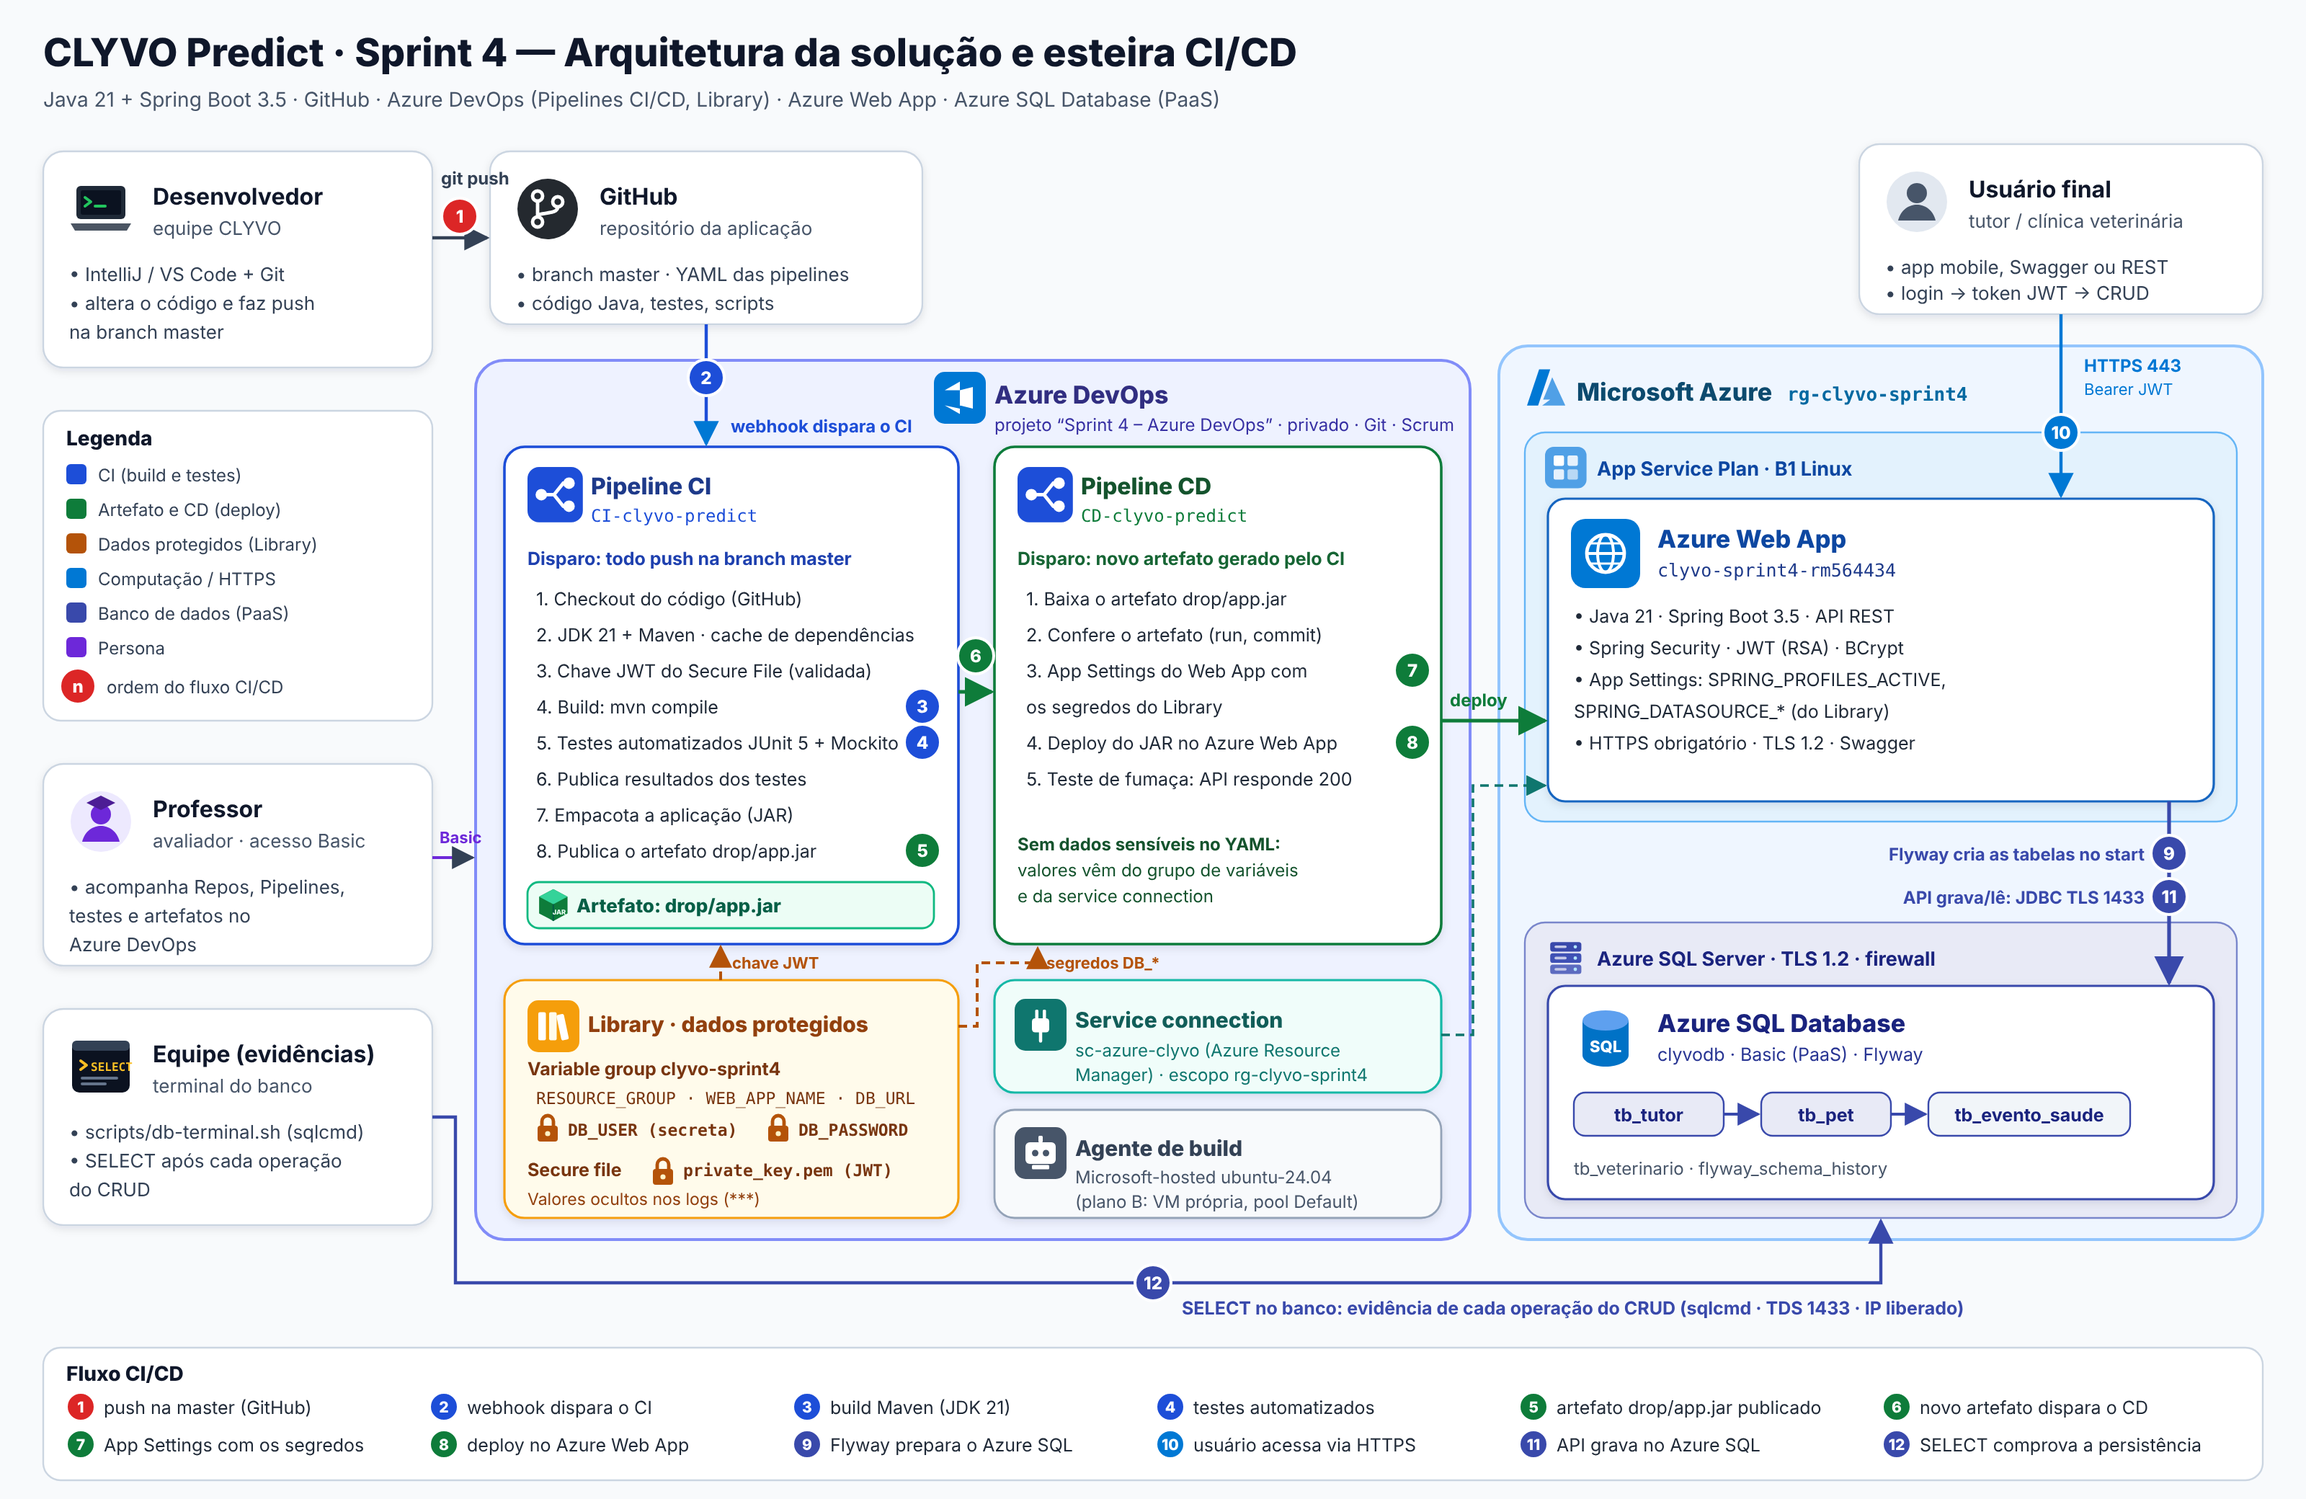
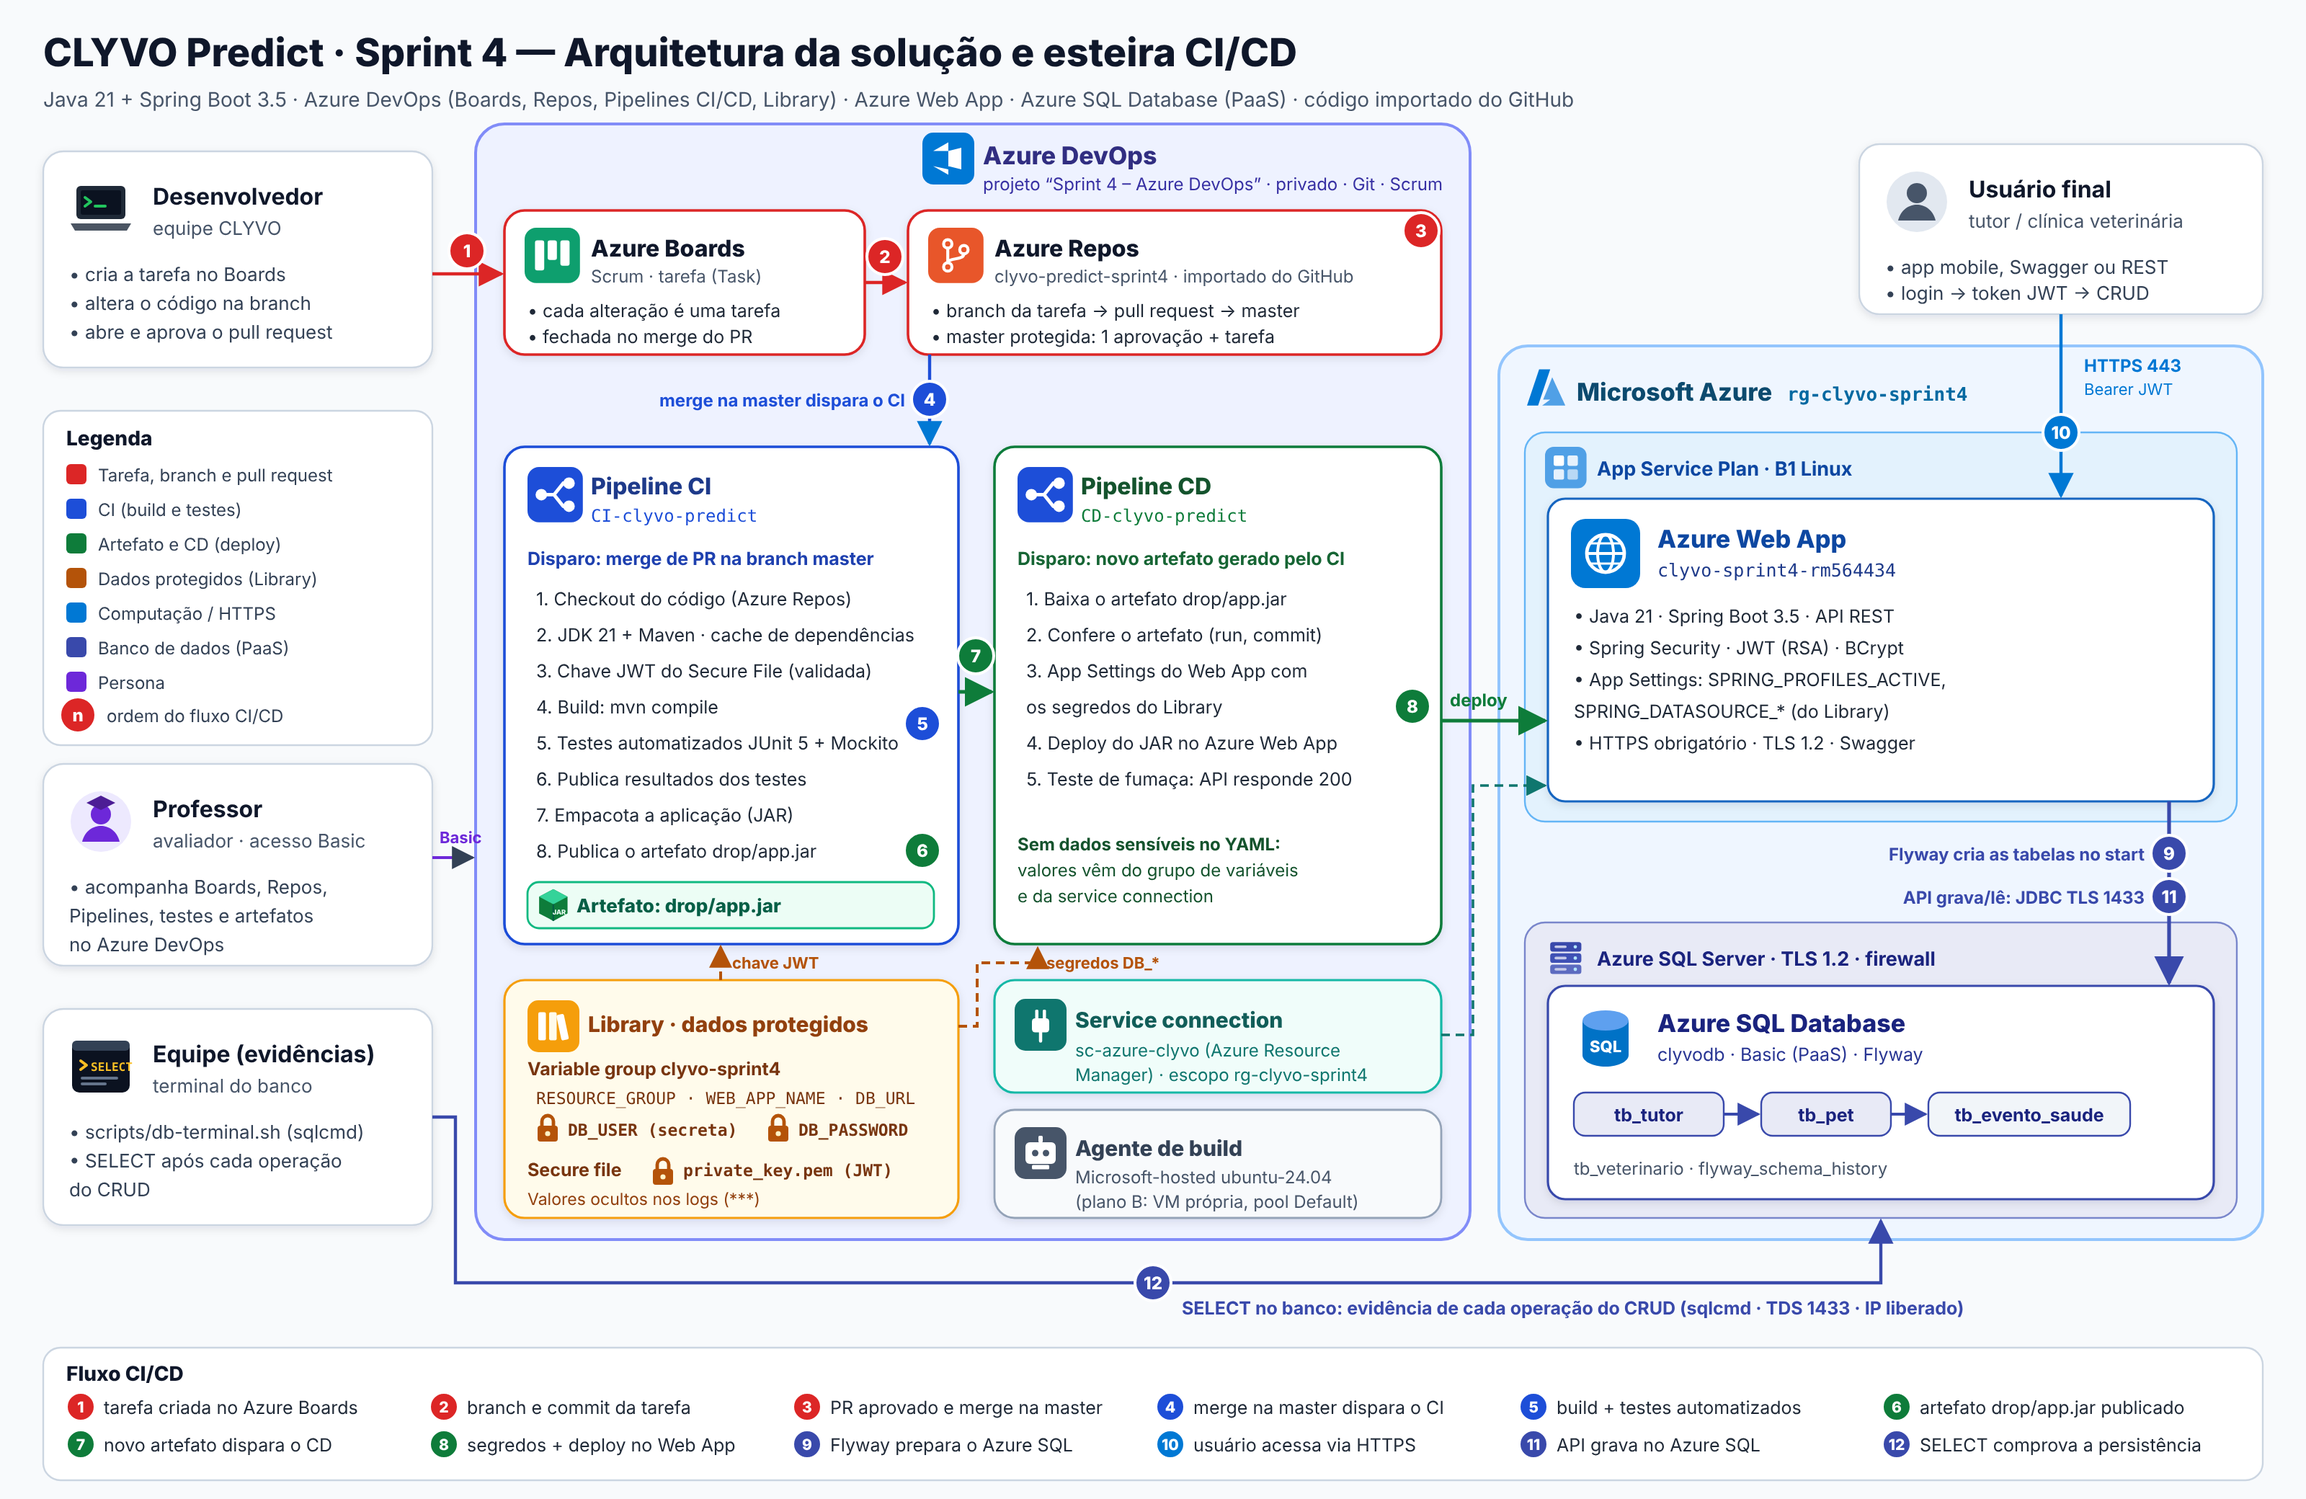
docs: fluxo com Azure Boards, Azure Repos e pull request

diff --git a/README.md b/README.md
@@ -5,7 +5,8 @@
 | Entrega | Link |
 |---|---|
 | Repositório GitHub | https://github.com/eduardawv/clyvo-predict-sprint4 |
-| Projeto no Azure DevOps | [https://dev.azure.com/2TDSPX-EDUARDA/Sprint%204%20%E2%80%93%20Azure%20DevOps](https://dev.azure.com/2TDSPX-EDUARDA/Sprint%204%20%E2%80%93%20Azure%20DevOps) |
+| Projeto no Azure DevOps | https://dev.azure.com/2TDSPX-EDUARDA/Sprint%204%20%E2%80%93%20Azure%20DevOps |
+| Repositório no Azure Repos (origem das pipelines) | https://dev.azure.com/2TDSPX-EDUARDA/Sprint%204%20%E2%80%93%20Azure%20DevOps/_git/clyvo-predict-sprint4 |
 | Vídeo (YouTube) | https://www.youtube.com/watch?v=INSERIR_LINK |
 
 | Nome completo | RM | Turma |
@@ -13,8 +14,8 @@
 | Camily Vitoria Pereira Maciel | RM566520 | 2TDSPX |
 | Eduarda Weiss Ventura | RM564434 | 2TDSPX |
 | Lucas Nunes Soares | RM566503 | 2TDSPX |
-| Maria Gabriela Landim Severo | RM565146 | 2TDSR |
-| Samara Porto Souza | RM559072 | 2TDSR |
+| Maria Gabriela Landim Severo | RM565146 | 2TDSPX |
+| Samara Porto Souza | RM559072 | 2TDSPX |
 
 ---
 
@@ -22,9 +23,10 @@
 
 O **CLYVO Predict** é a API da nossa solução de saúde preventiva para pets, desenvolvida no Challenge FIAP 2026 com a healthtech veterinária Clyvo. A API centraliza **tutores**, **pets**, **veterinários** e **eventos de saúde** (vacinas, consultas, doenças) e calcula para cada pet um **Health Score** de 0 a 100, que sobe com cuidados preventivos e cai com doenças e acidentes. O objetivo é tirar a jornada do pet do modo reativo, só emergência, e dar à clínica um histórico contínuo do paciente.
 
-Nesta sprint, o código Java da Sprint 4 passa a ser entregue por uma esteira **CI/CD no Azure DevOps**:
-1. Cada alteração na branch `master` dispara o build, os testes automatizados e a publicação do artefato.
-2. Cada novo artefato dispara o deploy no **Azure Web App**, com o banco **Azure SQL Database (PaaS)**.
+Nesta sprint, o código Java da Sprint 4 passa a ser entregue por uma esteira **CI/CD no Azure DevOps**, com o ciclo completo de vida de cada alteração:
+1. A alteração nasce de uma tarefa no **Azure Boards**, é feita numa branch do **Azure Repos** e entra na `master` por **pull request aprovado**.
+2. O merge na `master` dispara o build, os testes automatizados e a publicação do artefato.
+3. Cada novo artefato dispara o deploy no **Azure Web App**, com o banco **Azure SQL Database (PaaS)**.
 
 ### Stack
 
@@ -35,7 +37,8 @@ Nesta sprint, o código Java da Sprint 4 passa a ser entregue por uma esteira **
 | Documentação da API | SpringDoc OpenAPI (Swagger UI) |
 | Banco de dados | Azure SQL Database (PaaS), driver `mssql-jdbc`, migrations com Flyway |
 | Build e testes | Maven, JUnit 5, Mockito, Hibernate Validator |
-| Código-fonte | GitHub (branch `master`) |
+| Código-fonte | Azure Repos (Git, branch `master` protegida por pull request), importado do GitHub |
+| Gestão do trabalho | Azure Boards (processo Scrum): cada alteração é uma tarefa vinculada à branch, ao commit e ao pull request |
 | CI/CD | Azure DevOps: Azure Pipelines (YAML) e Library (grupo de variáveis e secure file) |
 | Hospedagem | Azure App Service: Web App Linux, Java SE 21, plano B1 |
 | Infraestrutura | Azure CLI (scripts na pasta `scripts/`) |
@@ -46,21 +49,22 @@ Nesta sprint, o código Java da Sprint 4 passa a ser entregue por uma esteira **
 
 | # | Etapa | Onde acontece |
 |---|---|---|
-| 1 | O desenvolvedor faz commit e push na branch `master` | IDE + Git → GitHub |
-| 2 | O webhook do GitHub dispara a pipeline **CI** | GitHub → Azure Pipelines |
-| 3 | Build com Maven e JDK 21; a chave JWT vem do Secure File | Pipeline CI |
-| 4 | Testes automatizados (JUnit 5 + Mockito), com resultados publicados na aba *Tests* | Pipeline CI |
-| 5 | Publicação do artefato `drop/app.jar` no Azure DevOps | Pipeline CI |
-| 6 | O novo artefato dispara a pipeline **CD** | Azure Pipelines |
-| 7 | O CD grava as variáveis de ambiente do Web App com os segredos do Library | Pipeline CD → Azure (service connection) |
-| 8 | Deploy do JAR no Azure Web App e teste de fumaça (API responde 200) | Pipeline CD → Web App |
+| 1 | O desenvolvedor cria a tarefa no Azure Boards e, a partir dela, a branch de trabalho | Azure Boards → Azure Repos |
+| 2 | Altera o código na branch e faz o commit vinculado à tarefa | Azure Repos (editor web ou IDE + Git) |
+| 3 | Abre o pull request para a `master`. A política exige 1 aprovação, tarefa vinculada e comentários resolvidos. Aprovado, o merge fecha a tarefa | Azure Repos (Branch policies) → Azure Boards |
+| 4 | O merge na `master` dispara a pipeline **CI** | Azure Repos → Azure Pipelines |
+| 5 | Build com Maven e JDK 21 (chave JWT do Secure File) e testes automatizados (JUnit 5 + Mockito), com resultados na aba *Tests* | Pipeline CI |
+| 6 | Publicação do artefato `drop/app.jar` no Azure DevOps | Pipeline CI |
+| 7 | O novo artefato dispara a pipeline **CD** | Azure Pipelines |
+| 8 | O CD grava as variáveis de ambiente do Web App com os segredos do Library, faz o deploy do JAR e o teste de fumaça (API responde 200) | Pipeline CD → Azure (service connection) → Web App |
 | 9 | Na subida da aplicação, o Flyway cria ou atualiza as tabelas | Web App → Azure SQL |
 | 10 | O usuário final acessa a API por HTTPS, com token JWT | Usuário → Web App |
 | 11 | A API grava e lê no Azure SQL (JDBC criptografado, porta 1433) | Web App → Azure SQL |
 | 12 | A equipe comprova cada operação com SELECT no banco | Terminal (sqlcmd) → Azure SQL |
 
 **Personas:**
-- **Desenvolvedor:** altera o código e faz push.
+- **Desenvolvedor:** cria a tarefa, a branch, o commit e o pull request.
+- **Revisor:** aprova o pull request e faz o merge na `master` (a política permite que o autor aprove a própria alteração).
 - **Usuário final:** tutor ou clínica que usa a API.
 - **Professor:** acompanha o projeto com acesso *Basic*.
 - **Equipe:** comprova a persistência no banco.
@@ -101,6 +105,16 @@ RM565146 - Maria Gabriela Landim Severo - 2TDSPX
 RM559072 - Samara Porto Souza - 2TDSPX
 ```
 
+### 4.1 Azure Boards e Azure Repos
+
+| Item | Configuração |
+|---|---|
+| Repositório | `clyvo-predict-sprint4` no Azure Repos, importado de https://github.com/eduardawv/clyvo-predict-sprint4 |
+| Branch padrão | `master` |
+| Políticas da `master` | mínimo de 1 revisor (o autor pode aprovar), tarefa vinculada obrigatória, comentários resolvidos obrigatórios e revisor incluído automaticamente |
+| Fluxo de cada alteração | tarefa (Boards) → branch → commit vinculado → pull request → aprovação → merge na `master` (a tarefa vai para *Done*) |
+| GitHub | cópia pública do código para a entrega; recebe a `master` do Azure Repos depois de cada merge |
+
 ## 5. Acesso do professor
 
 O professor foi convidado em *Organization settings > Users*, com nível de acesso **Basic** e adicionado ao projeto `Sprint 4 – Azure DevOps`.
@@ -111,14 +125,14 @@ A organização gratuita permite **5 usuários Basic**: o professor ocupa um del
 
 | Pipeline | Arquivo | Disparo |
 |---|---|---|
-| `CI-clyvo-predict` | [`azure-pipelines-ci.yml`](azure-pipelines-ci.yml) | toda alteração na branch `master` |
+| `CI-clyvo-predict` | [`azure-pipelines-ci.yml`](azure-pipelines-ci.yml) | toda alteração na branch `master` (merge de pull request) |
 | `CD-clyvo-predict` | [`azure-pipelines-cd.yml`](azure-pipelines-cd.yml) | conclusão do CI com novo artefato (`resources.pipelines`) |
 
 ### 6.1 CI: build, testes e artefato
 
 | Passo | O que faz |
 |---|---|
-| 1. Checkout | Baixa o código do GitHub (branch `master`) |
+| 1. Checkout | Baixa o código do Azure Repos (branch `master`, commit do merge) |
 | 2. JDK 21 e Maven | Seleciona o JDK 21 do agente e mostra as versões |
 | 3. Cache Maven | Reaproveita as dependências entre execuções |
 | 4. Secure File | Baixa `private_key.pem` (chave privada do JWT) do Library |
@@ -157,8 +171,8 @@ Os valores secretos aparecem como `***` nos logs. No Web App, eles viram *App Se
 
 | Regra | Como foi atendida |
 |---|---|
-| I. Pipeline conectada ao repositório | As duas pipelines leem o YAML do repositório GitHub (app Azure Pipelines) |
-| II. CI dispara a cada alteração na `master` | `trigger: branches: include: master` |
+| I. Pipeline conectada ao repositório | As duas pipelines leem o YAML do repositório `clyvo-predict-sprint4` no Azure Repos |
+| II. CI dispara a cada alteração na `master` | `trigger: branches: include: master`; como a `master` é protegida, toda alteração chega por merge de pull request |
 | III. CD dispara após novo artefato | `resources.pipelines` com `trigger` no CI `CI-clyvo-predict` |
 | IV. Variáveis sensíveis protegidas | Grupo de variáveis com segredos, Secure File e service connection |
 | V. Artefato publicado no Azure DevOps | `PublishPipelineArtifact@1` → `drop/app.jar` |
@@ -193,10 +207,13 @@ Feche e reabra o Git Bash. Não é preciso JDK nem Maven na máquina: o build ro
 
 ### 8.2 Repositório
 
+O código está no GitHub e foi importado para o Azure Repos, que é a origem das pipelines. Para trabalhar localmente com os dois:
+
 ```bash
 mkdir -p /c/dev && cd /c/dev
 git clone https://github.com/eduardawv/clyvo-predict-sprint4.git
 cd clyvo-predict-sprint4
+git remote add azure "URL copiada em Repos > Clone"
 ```
 
 As chaves do JWT são geradas uma única vez com `bash scripts/gerar-chave-jwt.sh`:
@@ -218,17 +235,28 @@ O script:
 ### 8.4 Azure DevOps
 
 1. **Projeto** com os dados da seção 4. Convide o professor com acesso Basic (seção 5).
-2. **Service connection:** *Project settings > Service connections > New > Azure Resource Manager*.
+2. **Azure Repos:** *Repos > Import a repository* (Git, URL do GitHub, sem autenticação). Renomeie o repositório para `clyvo-predict-sprint4` em *Project settings > Repositories*.
+3. **Políticas da `master`:** *Repos > Branches > master > ⋮ > Branch policies*, com as regras da seção 4.1.
+4. **Service connection:** *Project settings > Service connections > New > Azure Resource Manager*.
    - Escolha *Workload identity federation (automatic)*, a assinatura e o resource group `rg-clyvo-sprint4`.
    - Dê o nome `sc-azure-clyvo` e marque *Grant access permission to all pipelines*.
-3. **Library > + Variable group** `clyvo-sprint4`:
+5. **Library > + Variable group** `clyvo-sprint4`:
    - cadastre as variáveis da seção 6.3, com o cadeado em `DB_USER` e `DB_PASSWORD`;
    - em *Pipeline permissions*, libere o acesso para as pipelines.
-4. **Library > Secure files > + Secure file:** envie `.keys/private_key.pem` com esse mesmo nome e libere o acesso às pipelines.
-5. **Pipelines > New pipeline > GitHub > este repositório > Existing Azure Pipelines YAML file:**
+6. **Library > Secure files > + Secure file:** envie `.keys/private_key.pem` com esse mesmo nome e libere o acesso às pipelines.
+7. **Pipelines > New pipeline > Azure Repos Git > `clyvo-predict-sprint4` > Existing Azure Pipelines YAML file:**
    - escolha `/azure-pipelines-ci.yml`, clique em **Save** e renomeie para `CI-clyvo-predict`;
    - repita com `/azure-pipelines-cd.yml` e renomeie para `CD-clyvo-predict`.
-6. Rode o CI uma vez (*Run pipeline*). Ao terminar, o CD dispara sozinho.
+8. **Ciclo de uma alteração:**
+   - *Boards > Work items > New Work Item > Task* e, na tarefa, *Create a branch* a partir da `master`;
+   - altere o código na branch e faça o commit vinculando a tarefa;
+   - *Repos > Pull requests > Create a pull request* para a `master`, com a tarefa vinculada;
+   - **Approve** e **Complete** (merge, com *Complete associated work items after merging*).
+   O merge dispara o CI e o novo artefato dispara o CD.
+9. **Sincronize o GitHub** depois de cada merge:
+   ```bash
+   git checkout master && git pull azure master && git push origin master
+   ```
 
 ### 8.5 Plano B: agente próprio (sem paralelismo hospedado)
 
@@ -236,10 +264,10 @@ Organizações novas só recebem o agente gratuito da Microsoft depois de vincul
 
 ```bash
 bash scripts/azure-agente-vm.sh        # pede a URL da organização e um PAT (Agent Pools: Read & manage)
+git fetch azure && git checkout -b ci/agente-proprio azure/master
 sed -i 's/^  vmImage: ubuntu-24.04$/  name: Default/' azure-pipelines-ci.yml azure-pipelines-cd.yml
-git add azure-pipelines-ci.yml azure-pipelines-cd.yml
-git commit -m "ci: usa agente proprio (pool Default)"
-git push
+git commit -am "ci: usa agente proprio (pool Default)"
+git push -u azure ci/agente-proprio    # depois abra o pull request para a master
 ```
 
 ## 9. CRUD e evidências no banco
@@ -274,6 +302,8 @@ No final do roteiro ficam 2 linhas com conteúdo em cada tabela: Ana e Bruno em 
 | Terminal do banco cita firewall/IP | `bash scripts/azure-liberar-ip.sh` |
 | Região recusa o Azure SQL | O `azure-infra.sh` tenta sozinho as regiões permitidas pela policy da FIAP |
 | `Permission denied` no Git | Repositório dentro do OneDrive: use `C:\dev` |
+| `TF402455: Pushes to this branch are not permitted` | A `master` é protegida: faça a alteração numa branch e abra pull request |
+| Pull request não deixa completar | Vincule a tarefa do Boards, aprove e resolva os comentários abertos |
 
 ## 11. Estrutura do repositório
 
